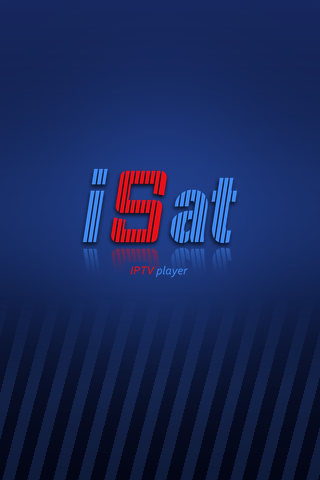
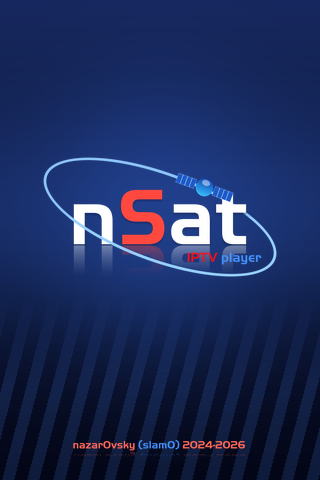
1.16.0: nazwa nSat, nowa ikona i ekrany startowe, ikona na pasku bocznym
Claude-Session: https://claude.ai/code/session_01PihxfTb8dx7aVUpneCJ5Qy

diff --git a/M3UTheme.m b/M3UTheme.m
@@ -10,7 +10,7 @@ NSInteger M3UThemeIndex(void)
 {
     if (sTheme < 0) {
         id stored = [[NSUserDefaults standardUserDefaults] objectForKey:kThemeKey];
-        NSInteger t = stored ? [stored integerValue] : 5;           /* domyślnie motyw iSat */
+        NSInteger t = stored ? [stored integerValue] : 5;           /* domyślnie motyw nSat */
         sTheme = (t >= 0 && t < 6) ? t : 5;
     }
     return sTheme;
@@ -26,11 +26,11 @@ void M3USetTheme(NSInteger index)
 
 NSString *M3UThemeName(NSInteger i)
 {
-    static NSString *const n[6] = { @"Niebieski", @"Srebrny", @"Klasyczny", @"Ciemny", @"Granatowy gradient", @"iSat" };
+    static NSString *const n[6] = { @"Niebieski", @"Srebrny", @"Klasyczny", @"Ciemny", @"Granatowy gradient", @"nSat" };
     return (i >= 0 && i < 6) ? n[i] : @"";
 }
 
-/* Motyw iSat (5) ma paletę i grafiki Granatowego (4); inne jest tylko tło. */
+/* Motyw nSat (5) ma paletę i grafiki Granatowego (4); inne jest tylko tło. */
 static NSInteger variant(void) { NSInteger t = M3UThemeIndex(); return t == 5 ? 4 : t; }
 
 static BOOL themeLight(void) { NSInteger t = M3UThemeIndex(); return t == 1 || t == 2; }
@@ -212,7 +212,7 @@ static UIImage *gradientImage(CGFloat h, const CGFloat *t, const CGFloat *b, BOO
     return [i resizableImageWithCapInsets:UIEdgeInsetsMake(0, 1, 0, 1)];
 }
 
-/* Tło motywu iSat: gradient granatowy, jasna poświata za środkiem i ukośne pasy zanikające ku górze. */
+/* Tło motywu nSat: gradient granatowy, jasna poświata za środkiem i ukośne pasy zanikające ku górze. */
 static UIImage *isatImage(CGSize sz)
 {
     UIGraphicsBeginImageContextWithOptions(sz, YES, [[UIScreen mainScreen] scale]);
@@ -309,7 +309,7 @@ static UIImage *brushedTile(void)
     [super layoutSubviews];
     CGFloat bw = self.bounds.size.width, bh = self.bounds.size.height;
     NSInteger t = self.forceBlue ? 0 : M3UThemeIndex();
-    if (t == 5) {                                               /* iSat: granat, poświata i ukośne pasy u dołu */
+    if (t == 5) {                                               /* nSat: granat, poświata i ukośne pasy u dołu */
         _tex.hidden = YES;
         _pic.hidden = NO;
         _pic.frame = CGRectMake(0, 0, bw, bh);

diff --git a/M3ULocalization.m b/M3ULocalization.m
@@ -221,9 +221,9 @@ static const char *const kRows[][3] = {
     { "Kafelki",
       "Tiles",
       "Плитки" },
-    { "Konfiguracja iSat",
-      "iSat setup",
-      "Настройка iSat" },
+    { "Konfiguracja nSat",
+      "nSat setup",
+      "Настройка nSat" },
     { "Lista",
       "List",
       "Список" },
@@ -245,9 +245,9 @@ static const char *const kRows[][3] = {
     { "W schowku nie ma adresu http:// ani https://. Skopiuj link do playlisty i spróbuj jeszcze raz.",
       "There is no http:// or https:// address on the clipboard. Copy the playlist link and try again.",
       "В буфере обмена нет адреса http:// или https://. Скопируйте ссылку на плейлист и попробуйте ещё раз." },
-    { "Witaj w iSat",
-      "Welcome to iSat",
-      "Добро пожаловать в iSat" },
+    { "Witaj w nSat",
+      "Welcome to nSat",
+      "Добро пожаловать в nSat" },
     { "Wybierz wygląd",
       "Choose a look",
       "Выберите вид" },
@@ -470,9 +470,9 @@ static const char *const kRows[][3] = {
     { "Nie udało się odtworzyć kanału. Przesuń palcem w górę lub w dół, aby wybrać inny.",
       "Couldn't play the channel. Swipe up or down to pick another one.",
       "Не удалось воспроизвести канал. Проведите вверх или вниз, чтобы выбрать другой." },
-    { "iSat",
-      "iSat",
-      "iSat" }
+    { "nSat",
+      "nSat",
+      "nSat" }
 };
 
 static NSDictionary *table(int col)

diff --git a/M3USetupController.m b/M3USetupController.m
@@ -168,7 +168,7 @@ static UIImageView *glassPanel(CGRect frame)
     icon.frame = CGRectMake((W - 110) / 2.0f, 40 + e * 0.6f, 110, 110);
     [p addSubview:icon];
     CGFloat y = 168 + e;
-    [p addSubview:makeLabel(L(@"Witaj w iSat"), CGRectMake(0, y, W, 36), 28, YES, softWhite(), NSTextAlignmentCenter)];
+    [p addSubview:makeLabel(L(@"Witaj w nSat"), CGRectMake(0, y, W, 36), 28, YES, softWhite(), NSTextAlignmentCenter)];
     [p addSubview:makeLabel(L(@"Czytnik playlist M3U i M3U8"), CGRectMake(0, y + 40, W, 22), 16, NO, softBlue(), NSTextAlignmentCenter)];
     [p addSubview:makeLabel(L(@"kanały z ikonami, ulubione, odtwarzanie"), CGRectMake(0, y + 64, W, 20), 13, NO, softBlue(), NSTextAlignmentCenter)];
     UIImageView *panel = glassPanel(CGRectMake(24, y + 100, W - 48, 62));
@@ -213,7 +213,7 @@ static UIImageView *glassPanel(CGRect frame)
     icon.frame = CGRectMake((W - 60) / 2.0f, 36 + e * 0.2f, 60, 60);
     [p addSubview:icon];
     CGFloat y0 = 104 + e * 0.2f;
-    [p addSubview:makeLabel(L(@"Konfiguracja iSat"), CGRectMake(0, y0, W, 30), 22, YES, softWhite(), NSTextAlignmentCenter)];
+    [p addSubview:makeLabel(L(@"Konfiguracja nSat"), CGRectMake(0, y0, W, 30), 22, YES, softWhite(), NSTextAlignmentCenter)];
     [p addSubview:makeLabel(L(@"Dodaj swoją pierwszą playlistę"), CGRectMake(0, y0 + 32, W, 18), 13, NO, softBlue(), NSTextAlignmentCenter)];
     CGFloat py = y0 + 60;
     [p addSubview:glassPanel(CGRectMake(14, py, W - 28, 186))];

diff --git a/M3USettingsController.m b/M3USettingsController.m
@@ -10,7 +10,7 @@ static NSString *const kLayoutKey = @"layout_grid";
 @interface M3USettingsController () <UIAlertViewDelegate>
 @end
 
-/* Kolejność motywów na liście: iSat (5) pierwszy, potem pozostałe. */
+/* Kolejność motywów na liście: nSat (5) pierwszy, potem pozostałe. */
 static NSInteger themeAtRow(NSInteger row) { static const NSInteger o[6] = { 5, 0, 1, 2, 3, 4 }; return (row >= 0 && row < 6) ? o[row] : 5; }
 
 @implementation M3USettingsController
@@ -102,7 +102,7 @@ M3U_ROTATE_ANY
             c.accessoryType = UITableViewCellAccessoryDisclosureIndicator;
         }
     } else if (ip.row == 0) {
-        c.textLabel.text = @"iSat";
+        c.textLabel.text = @"nSat";
         NSString *v = [[[NSBundle mainBundle] infoDictionary] objectForKey:@"CFBundleShortVersionString"] ?: @"";
         c.detailTextLabel.text = [NSString stringWithFormat:@"%@ %@", L(@"Wersja"), v];
         c.selectionStyle = UITableViewCellSelectionStyleNone;

diff --git a/M3UTheme.h b/M3UTheme.h
@@ -2,7 +2,7 @@
 
 /* Granatowo-niebieski wygląd w stylu iOS 6: gładkie niebieskie tło z błyskiem, błyszczące paski i guziki. */
 
-/* Motywy: 0 Niebieski, 1 Srebrny, 2 Klasyczny, 3 Ciemny, 4 Granatowy gradient, 5 iSat (domyślny, paleta Granatowego + własne tło) */
+/* Motywy: 0 Niebieski, 1 Srebrny, 2 Klasyczny, 3 Ciemny, 4 Granatowy gradient, 5 nSat (domyślny, paleta Granatowego + własne tło) */
 extern NSString *const M3UThemeDidChange;
 NSInteger M3UThemeCount(void);
 NSInteger M3UThemeIndex(void);

diff --git a/M3URailController.m b/M3URailController.m
@@ -134,7 +134,7 @@ M3U_ROTATE_ANY
         name.textColor = M3UTextColor();
         name.shadowColor = M3UShadowColor();
         name.shadowOffset = M3UShadowOffset();
-        name.text = @"iSat";
+        name.text = @"nSat";
         [self.panel addSubview:name];
         UIView *line = [[UIView alloc] initWithFrame:CGRectMake(14, 110, kRailW - 29.0f, 1)];
         line.backgroundColor = M3UPanelEdgeColor();

diff --git a/M3URailController.h b/M3URailController.h
@@ -1,6 +1,6 @@
 #import <UIKit/UIKit.h>
 
-/* iPad: wąski pasek boczny z logo iSat i przyciskami funkcji po lewej, zwykła nawigacja po prawej. */
+/* iPad: wąski pasek boczny z logo nSat i przyciskami funkcji po lewej, zwykła nawigacja po prawej. */
 @interface M3URailController : UIViewController
 - (id)initWithNavigation:(UINavigationController *)nav;
 @end

diff --git a/M3UPlaylistsController.m b/M3UPlaylistsController.m
@@ -20,7 +20,7 @@ M3U_ROTATE_ANY
 - (id)init
 {
     self = [super initWithStyle:UITableViewStylePlain];
-    if (self) self.title = @"iSat";
+    if (self) self.title = @"nSat";
     return self;
 }
 
